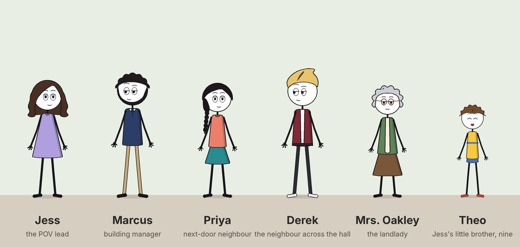
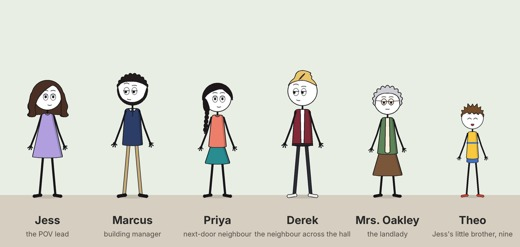
pov-story: redraw hair and profiles after a full view-by-view self-check
Hair turns round the skull in three-quarter view; profiles show one eye,
one brow and one lens; profile hairlines hug the skull instead of a cap
brim; Marcus, Derek and Theo hair no longer read as hats (Theo now has
the anchor's spikes); glasses arms go under the hair; Priya's braid hangs
over the near shoulder facing right; sheet layouts no longer overlap.

Claude-Session: https://claude.ai/code/session_01NQ2JJwxztF1Q7rFfGqcSXC

diff --git a/skills/directing-stickman-videos/references/styles/pov-story.md b/skills/directing-stickman-videos/references/styles/pov-story.md
@@ -169,7 +169,7 @@ Reaction before cause suits this style: the first frame shows the lead frozen an
 
 - [samples/pov-story.md](samples/pov-story.md): 3 clips, 9:16, "Part 1" of a parcel story, with 1, 2 and 2 characters on screen.
 - `tools/package_lint/package_lint.py samples/pov-story.md`: PASS, 0 red, 0 yellow. [Facts block](samples/pov-story.facts.md). `hand_ledger.py`: PASS. `tests/verify-opening-hook.py`: passed.
-- Turnaround view check (`posture-gate.md`): one sheet per character (head and full figure in front, three-quarter both ways and side both ways) reviewed by eye. Fixed from it: Marcus's beard ran up onto the cheek and mouth in profile (now sideburn, jaw, under the mouth); Priya's braid showed behind the head when facing left, where her right shoulder is the far side; Mrs. Oakley's glasses had no far lens in profile and the arm ran past the head; part lines crossed the hair outline in profile; a hair tail stuck out under Mrs. Oakley's nape; Derek's quiff had a second point at the back of the head. After the owner's review: Priya's braid floated beside her cheek instead of leaving the hair mass (now a gathered lock joins it to the hair in every view, behind the head on the far side), and Jess's long back hair was drawn over her neck (back hair is now its own layer behind the neck and body); Mrs. Oakley's glasses had no temple arms or bridge in front and three-quarter view and the lenses overlapped (now lenses on the eyes, a bridge, and arms back to the ears).
+- Turnaround view check (`posture-gate.md`): one sheet per character (head and full figure in front, three-quarter both ways and side both ways) reviewed by eye. Fixed from it: Marcus's beard ran up onto the cheek and mouth in profile (now sideburn, jaw, under the mouth); Priya's braid showed behind the head when facing left, where her right shoulder is the far side; Mrs. Oakley's glasses arm ran past the head in profile; part lines crossed the hair outline in profile; a hair tail stuck out under Mrs. Oakley's nape; Derek's quiff had a second point at the back of the head. After the owner's review: Priya's braid floated beside her cheek instead of leaving the hair mass (now a gathered lock joins it to the hair in every view, behind the head on the far side), and Jess's long back hair was drawn over her neck (back hair is now its own layer behind the neck and body); Mrs. Oakley's glasses had no temple arms or bridge in front and three-quarter view and the lenses overlapped (now lenses on the eyes, a bridge, and arms back to the ears). A second full self-check, view by view, then found and fixed: the hair did not turn in three-quarter view (it now moves round the skull, so the hairline on the face side slides to the edge and more hair shows on the back side); profiles showed both eyes and both lenses crowded at the front (now one eye, one brow and one narrow lens, the far ones hidden); every profile hairline ran straight across the forehead like a cap brim (now it starts at the front of the crown, drops to the temple above the brow and runs in front of the ear to the nape); Marcus's curls stuck out in flaps at ear level, Derek's quiff and Theo's hair read as hats, and Theo's hair was wavy instead of the anchor's messy spikes (now short sides hugging the skull, a rounded swept quiff, uneven spikes); in profile a bare patch split Marcus's hair from his beard (the beard now follows the hair's edge); Mrs. Oakley's glasses arms ran over her curls in front view (now they go under the hair at the side of the head); facing right, Priya's braid hung down her back instead of over her near shoulder; stray dash marks on the hair read as scratches (removed); the turnaround and cast sheets let hair and text overlap the labels and card edges (relaid).
 - Posture gate: 48/48 pose tracks PASS with 0 errors and 0 warnings (front-view frames carry `body_width`, `body_profile`, `limb_width`, `hand_length` and `head_radius`).
 - Motion test (`motion/motion.mp4`, 9:16, 204 frames at 12 fps): Jess's phone buzz; Marcus passes the camera still from his right hand to Jess's left hand across the counter with six frames of both hands on it; the door across the hall opens on Derek holding the parcel in both hands. All five tracks PASS, and `--scene` PASSES for both two-character shots, 0 errors and 0 warnings.
 
